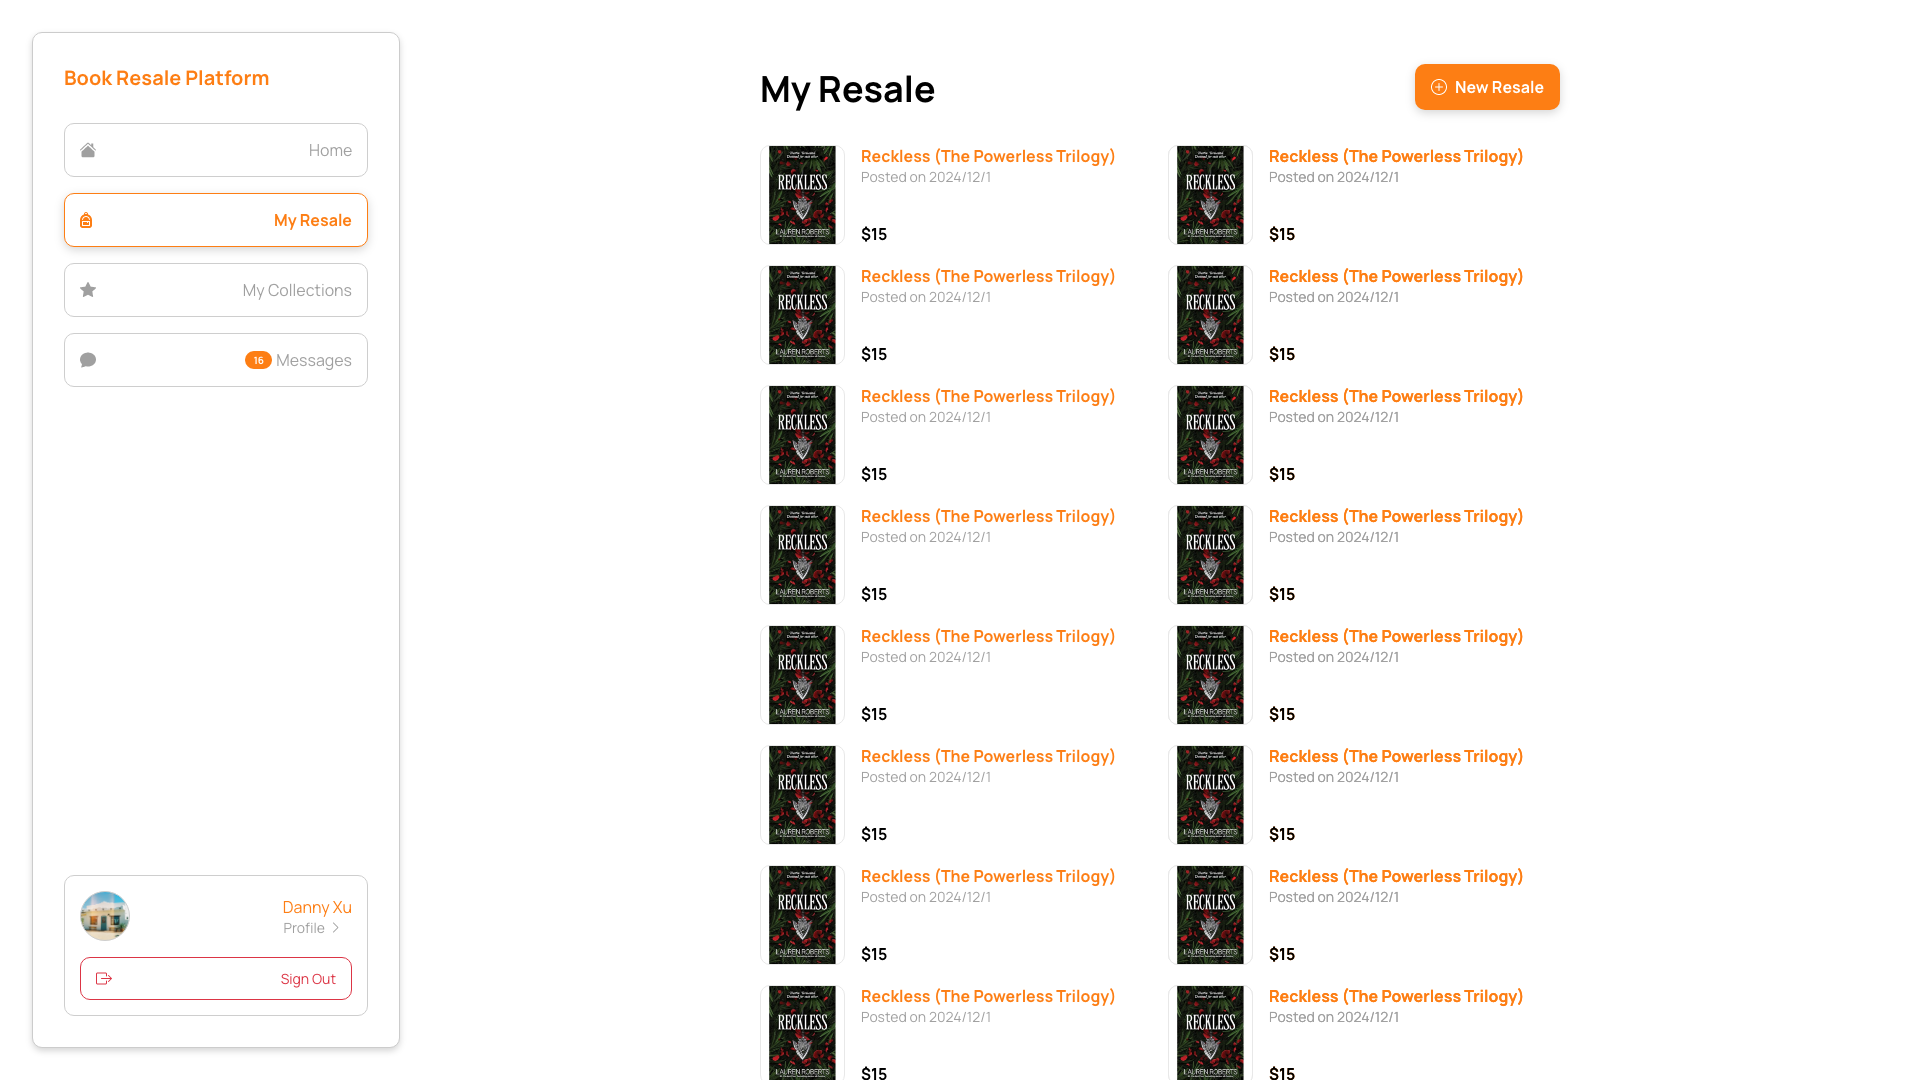
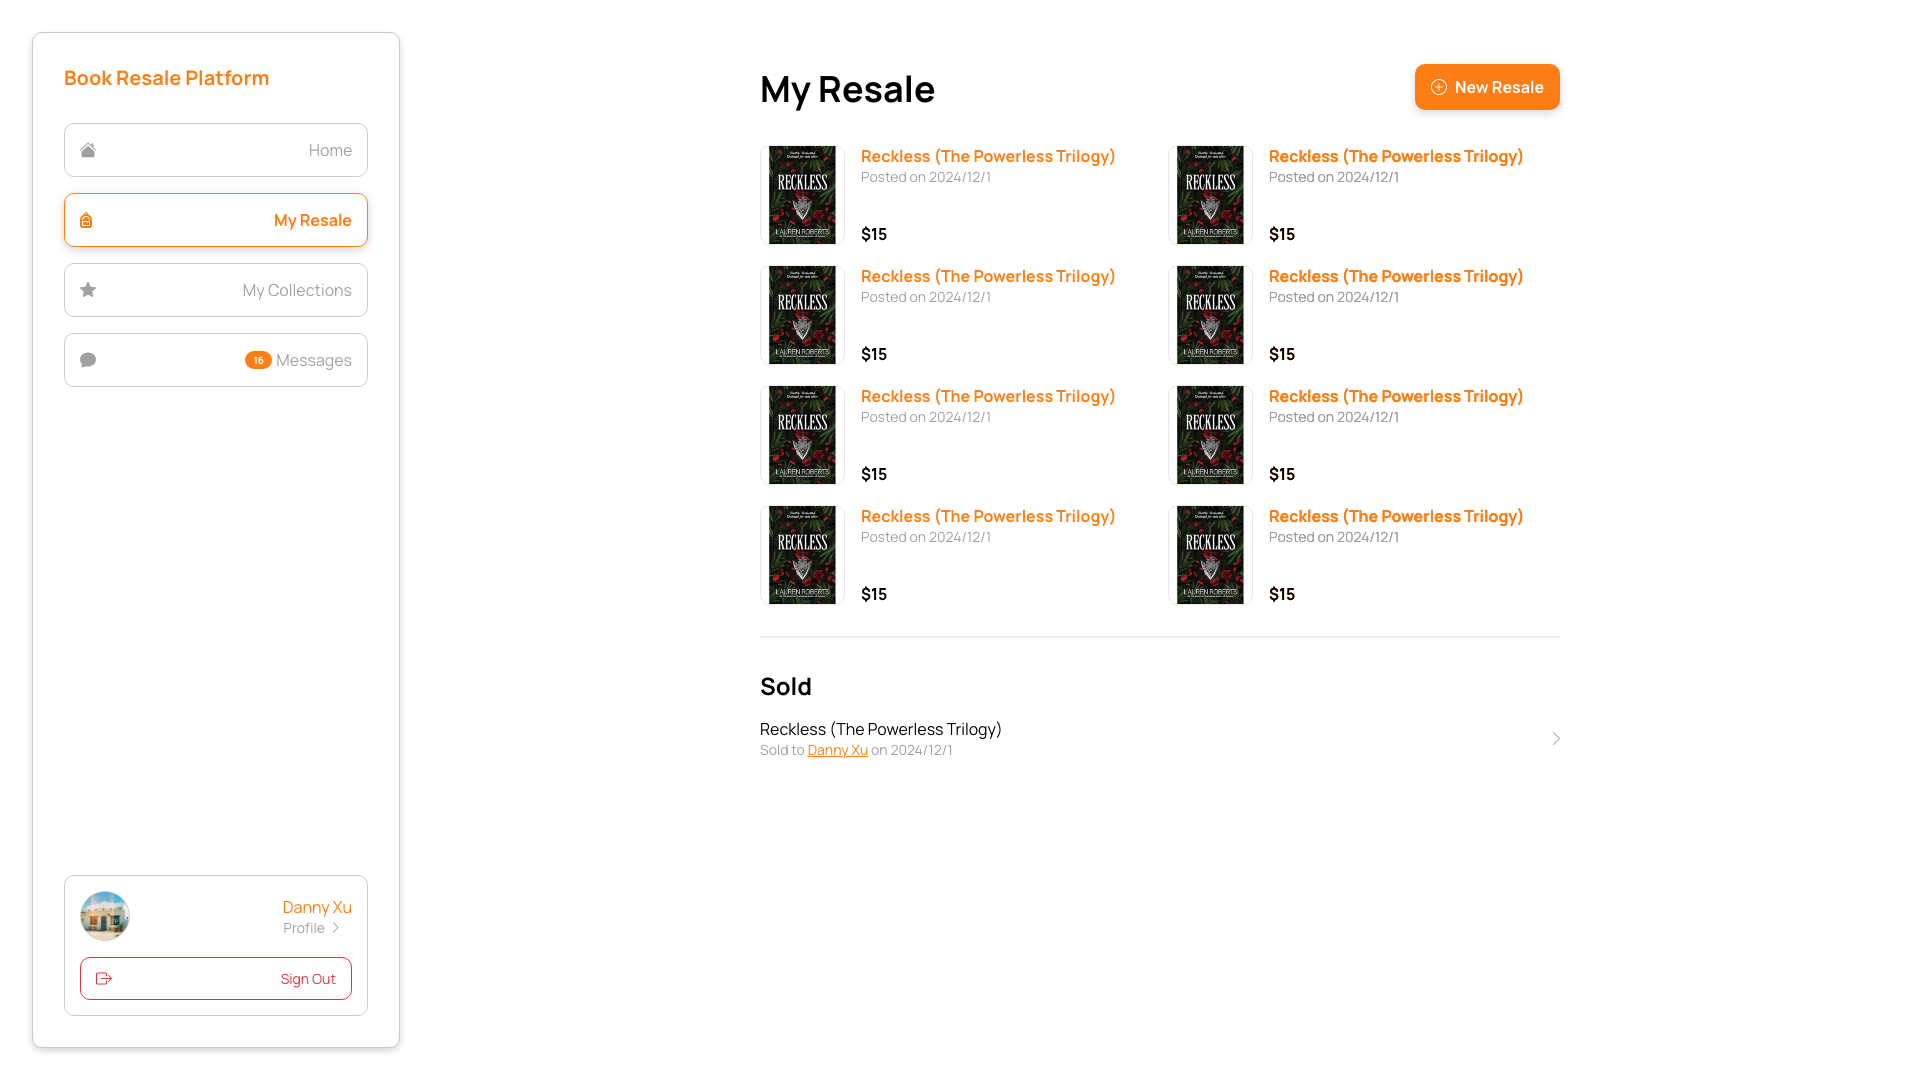
Update

Changed region(s): [[0.375, 0.5806, 0.7812, 1.0]]

diff --git a/README.md b/README.md
@@ -12,7 +12,11 @@
 
 ![](./Exports/Index%20-%20Signed%20In.png)
 
+![](./Exports/My%20Resale%20–%20Product%20Edit%20&%20New%20Resale%20–%20Sold.png)
+
 ![](./Exports/My%20Resale%20–%20Product%20Edit%20&%20New%20Resale.png)
+
+![](./Exports/My%20Resale%20–%20Sold%20Details.png)
 
 ![](./Exports/My%20Resale.png)
 
